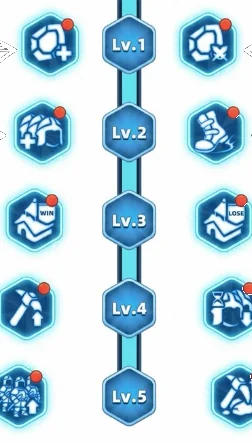
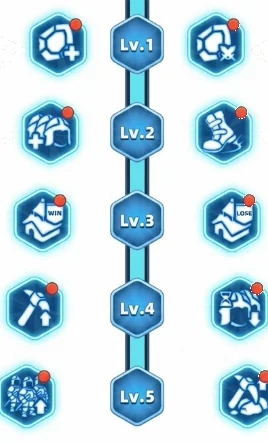
Crystal Cluster Valley: clean skill tree and Victory pictures
The sheets' arrows and handwriting touching the screenshots are removed by
colour and connected shape instead of cropping into the pictures: the skill
tree now has every skill whole, and the Victory screenshot (left out before)
shows a taken cluster with its pop-out crystals. The cleanup script is kept in
tools/guide-graphics/ for future sheets.

Claude-Session: https://claude.ai/code/session_01WTP9Bp9jFYr4NkMjMEr5Td

diff --git a/tools/guide-graphics/clean_annotations.py b/tools/guide-graphics/clean_annotations.py
@@ -1,0 +1,144 @@
+"""Cuts game screenshots out of the owner's annotated guide sheets (owner request, 2026-11-17),
+removing the annotations that touch them (black arrows and handwriting, red arrows) by colour
+and connected shape instead of a straight crop: red arrows and the outline around them, long
+ink strokes, arrowheads a crop split from their line, handwriting cut by the edge, and loose
+specks. Needs only Pillow. Used for the Crystal Cluster Valley guide's skill tree and
+Victory pictures; the helpers (components, grow_erase, is_ink, is_red) suit other sheets
+drawn the same way, with crop boxes and rules adjusted per picture: check the result."""
+from collections import deque
+from PIL import Image
+
+import sys
+
+# The owner's two Crystal Cluster Valley sheets: python3 clean_annotations.py <skill tree sheet> <late method sheet>
+SHEETS = sys.argv[1:3]
+WHITE = (255, 255, 255)
+
+
+def is_white(p):
+    return min(p) > 232
+
+
+def is_ink(p):
+    """Black/grey annotation ink: no colour, not white."""
+    return max(p) - min(p) < 28 and max(p) < 225
+
+
+def is_red(p):
+    r, g, b = p
+    return r > 150 and r - g > 90 and r - b > 70 and g < 135
+
+
+def is_blue(p):
+    r, g, b = p
+    return b - r > 35
+
+
+def components(px, w, h, pred):
+    seen = [[False] * w for _ in range(h)]
+    out = []
+    for y in range(h):
+        for x in range(w):
+            if seen[y][x] or not pred(px[x, y]):
+                continue
+            q = deque([(x, y)])
+            seen[y][x] = True
+            comp = []
+            while q:
+                cx, cy = q.popleft()
+                comp.append((cx, cy))
+                for nx, ny in ((cx + 1, cy), (cx - 1, cy), (cx, cy + 1), (cx, cy - 1),
+                               (cx + 1, cy + 1), (cx - 1, cy - 1), (cx + 1, cy - 1), (cx - 1, cy + 1)):
+                    if 0 <= nx < w and 0 <= ny < h and not seen[ny][nx] and pred(px[nx, ny]):
+                        seen[ny][nx] = True
+                        q.append((nx, ny))
+            out.append(comp)
+    return out
+
+
+def bbox(comp):
+    xs = [p[0] for p in comp]
+    ys = [p[1] for p in comp]
+    return min(xs), min(ys), max(xs), max(ys)
+
+
+def grow_erase(px, w, h, seeds, radius, pred):
+    """Erase pixels matching pred within `radius` of the seed pixels (arrow outlines)."""
+    frontier = set(seeds)
+    for _ in range(radius):
+        nxt = set()
+        for x, y in frontier:
+            for dx in (-1, 0, 1):
+                for dy in (-1, 0, 1):
+                    nx, ny = x + dx, y + dy
+                    if 0 <= nx < w and 0 <= ny < h and (nx, ny) not in seeds and pred(px[nx, ny]):
+                        nxt.add((nx, ny))
+        for p in nxt:
+            px[p] = WHITE
+        seeds = seeds | nxt
+        frontier = nxt
+
+
+def clean_tree():
+    A = Image.open(SHEETS[0]).convert('RGB')
+    im = A.crop((400, 222, 668, 665))
+    px = im.load()
+    w, h = im.size
+    # The arrows are long thin strokes of ink; the icons' own dark text (WIN/LOSE) is small
+    for comp in components(px, w, h, is_ink):
+        x0, y0, x1, y1 = bbox(comp)
+        if (x1 - x0 >= 22 or y1 - y0 >= 22) and not (x0 > 110 and x1 < 160):
+            for p in comp:
+                px[p] = WHITE
+    # Arrowheads the crop split from their lines: any ink shape in the side margins
+    for comp in components(px, w, h, is_ink):
+        x0, y0, x1, y1 = bbox(comp)
+        if x1 < 34 or x0 > w - 34:
+            for p in comp:
+                px[p] = WHITE
+    # Pale anti-aliasing left along where the strokes were
+    grey = lambda p: max(p) - min(p) < 22 and 150 <= max(p) <= 232
+    for comp in components(px, w, h, grey):
+        x0, y0, x1, y1 = bbox(comp)
+        if x1 - x0 >= 12 and (x0 < 30 or x1 > w - 30):
+            for p in comp:
+                px[p] = WHITE
+    return im
+
+
+def clean_victory():
+    B = Image.open(SHEETS[1]).convert('RGB')
+    im = B.crop((474, 116, 688, 318))
+    px = im.load()
+    w, h = im.size
+    reds = set()
+    for comp in components(px, w, h, is_red):
+        if len(comp) > 25:
+            reds.update(comp)
+    for p in reds:
+        px[p] = WHITE
+    # The arrows' black outline and anti-aliasing around the red fill
+    grow_erase(px, w, h, reds, 7, lambda p: is_ink(p) or (max(p) - min(p) < 60 and min(p) > 120 and not is_white(p)))
+    # Whatever is left of the arrows (anti-aliased outline, pink edges): anything that isn't
+    # white, blue (crystals) or the screenshot's own colours, joined to where an arrow was
+    leftover = lambda p: not is_white(p) and not is_blue(p) and (is_ink(p) or (p[0] - p[2] > 25 and p[0] > 140))
+    grow_erase(px, w, h, reds, 16, leftover)
+    # Handwriting cut by the crop's sides: ink shapes touching the left or right edge
+    for comp in components(px, w, h, is_ink):
+        x0, y0, x1, y1 = bbox(comp)
+        if x0 <= 1 or x1 >= w - 2:
+            for p in comp:
+                px[p] = WHITE
+    # Specks left on the white: keep only the screenshot's big pieces (the title, pin, label,
+    # cluster, crystals); small loose shapes, and ones with no blue or gold in them, go
+    for comp in components(px, w, h, lambda p: min(p) < 225):
+        art = sum(1 for p in comp if is_blue(px[p]) or (px[p][0] > 200 and 120 < px[p][1] < 220 and px[p][2] < 120))
+        if len(comp) < 160 or art < 8:
+            for p in comp:
+                px[p] = WHITE
+    return im
+
+
+if __name__ == '__main__':
+    clean_tree().save('crystal-tree.webp', quality=85, method=6)
+    clean_victory().save('crystal-victory.webp', quality=85, method=6)

diff --git a/docs/DECISIONS.md b/docs/DECISIONS.md
@@ -188,7 +188,7 @@ under *Must not change*, or someone will "fix" it.
 - **When the Discord reminder is posted (owner request, 2026-11-17):** under the reminder choice, *When to post it*: When it starts, 10 / 20 / 30 / 40 / 50 minutes before, or 1 hour before (the default, so new events behave as before). Saved as `reminder_minutes` (0–60 in tens; `api/manage-event.js` keeps anything else to 60); `reminder` stays `'1h'` for "on" and `'off'`, so older events (no `reminder_minutes`) keep their hour. `api/_reminders.js` posts it once the occurrence is within that many minutes; cron-job.org checks every 5 minutes (owner, 2026-11-17; it was 10), so it arrives within the 5 minutes before the chosen time (the form says so). "When it starts" is posted by the first check after the start, up to 15 minutes late, for the occurrence that has just begun (a repeating event's too), titled "🔔 Starting now" instead of "⏰ Starting soon". With *No reminder* the timing is greyed out and both hints hidden (`.form-hint[hidden]`: the reminder's "Posted in…" hint had stayed on screen since #177). The reminder's label lost "(1 hour before)"; all 8 languages.
 - **The Stewards' dashboard switcher follows the standings (owner, 2026-11-17):** it lists every alliance in the Alliance page's standings order: NAP alliances (`is_nap`, on unless switched off) by rank, then by tag, academies such as RâvN and Ghst among them (they were missing: academies were left out); then, under "Not in the NAP", the alliances outside it, in the same order. A Steward opening the page with no choice starts on the first one.
 - **Telling alliances apart: letter case counts, accents don't (owner, 2026-11-17):** RâvN and RÂVN are two alliances (RâvN was showing RÂVN's picture), while RAVN is RÂVN written without the accent. One rule everywhere, in `api/_alliances.js` (server) and `js/tags.js` (browser; `js/calendar.js` keeps its own copy, as a classic script): `sameTag` compares the letters with accents removed and letter case kept; `findTag` takes a typed tag to the alliance it means (exact, else the same letters, else, typed in another letter case, the only alliance it can mean; never a guess between RâvN and RÂVN). Used for: the alliance pictures (and who may send or remove them), the dashboard (which file, and the R5 check), the King's console, the calendar (which alliance events a page sees and who may edit or delete them, the alert channel, reminders), sign-in by role name or `[TAG]` nickname, the bot's alliance roles, `/rank` (a new tag is kept as typed, no longer put in capitals), the map's territory owner and the blacklist's duplicate check (alliances; players still ignore letter case). **Stored files** (`tagSlug`): an alliance's letters and digits in capitals, as before (RÂVN → RAVN, HeKi → HEKI), so nothing stored moves; only when another alliance already has those capitals is the letter case kept (RâvN → RavN). RâvN's own pictures and dashboard therefore start empty; anything it sent before shared RÂVN's. (Fixed the same day: the picture server only accepted capitals in file names, so RâvN's approved pictures, `RavN-…`, were saved but answered "not found".) **Sign-in roles:** `_data/alliances.yml role_settings` gained RâvN (`DISCORD_RavN`) and Ghst (`DISCORD_GHST`).
-- **Crystal Cluster Valley guide, from the owner's two graphics (2026-11-17):** the skill tree sheet and "Scotty's late method" sheet combined into one guide by topic, not by sheet: The Valley (map rings, the centre's last 7 minutes, rats), Skills (each level's left and right skill with which to pick, and the rats' skill crystals), Clusters (Guardian crystals, stealing, Instant Clusters, the centre), Late Method (Scotty's steps) and Controls (teleport, notification timers, the skill button). Game screenshots cut out of the sheets, words as text. It replaces the old placeholder (`_source/crystal.md`), and the card is live at `/LANG/guides/crystal.html` (was `crystal-valley.html`, unavailable), where the calendar's Crystal Cluster events already link. Skills are named, not called left/right, in the late method: the second sheet's (L)/(R) labels are mirrored from the first's.
+- **Crystal Cluster Valley guide, from the owner's two graphics (2026-11-17):** the skill tree sheet and "Scotty's late method" sheet combined into one guide by topic, not by sheet: The Valley (map rings, the centre's last 7 minutes, rats), Skills (each level's left and right skill with which to pick, and the rats' skill crystals), Clusters (Guardian crystals, stealing, Instant Clusters, the centre), Late Method (Scotty's steps) and Controls (teleport, notification timers, the skill button). Game screenshots cut out of the sheets, words as text. It replaces the old placeholder (`_source/crystal.md`), and the card is live at `/LANG/guides/crystal.html` (was `crystal-valley.html`, unavailable), where the calendar's Crystal Cluster events already link. Skills are named, not called left/right, in the late method: the second sheet's (L)/(R) labels are mirrored from the first's. The skill tree and the Victory screenshot had the sheets' arrows and handwriting touching them; they are cleaned by colour and connected shape rather than cropped into (`tools/guide-graphics/clean_annotations.py`, Pillow only).
 - **Alliance Duel guide, reworked from the owner's day graphics (2026-11-17):** an Overview tab (the week's themes, Sunday's preparation and the Falcon Quest rule: complete the day before, collect only on Days 1, 3 and 5) and a tab per day (Day 1: Raven … Day 6: Invasion), each with its picture cut from the owner's graphic and its tasks as text, so the whole guide is translated like any other. It replaces the day table built from `_data/duel_schedule.yml` (hand-translated per language) with `_includes/duel_schedule.html`, both removed; the tasks follow the new graphics, plus from the old table Sunday's preparation, antitoxins on Day 1, and on Day 6 that losing soldiers earns points too, with the owner's warning that throwing troops away gives the opponent more points than you. The draft (`_source/duel_en.md`) replaced `_source/duel.md`, so CI translated all 8 languages again on merge.
 - **Guide cards show their event's picture (owner request, 2026-11-17):** a guide with an event on the calendar names it in `_data/guide_directory.yml` (`event:`, an id in `_data/event_types.yml`), and its card on the Guides page and in Pinned Pages shows that event's `picture` behind it, dimmed into the theme's card colour (darkest at the bottom, under the name), as the calendar's event cards do. One picture per event, so adding one to an event shows it on the calendar and the guide card together. A guide with no event can have its own `picture:` (a file in `images/events/`). Coming-soon cards keep their grey, dimmed look, picture included. `_includes/guide-picture.html` works the picture out for both. At the time, 5 events had pictures: Crystal Cluster, Elixir Scramble, Undead Siege, Gear Upgrade and Cheese Trap (only Cheese Trap's guide was written). **More pictures (owner, 2026-11-17):** Kingdom War (`kvk_battle`), Kill Event and the new **Hunt Battle** event type (a behemoth hunt; owner: 1 hour, no repeat until its length is known; claw-marks icon; no guide yet) got pictures, each as a wide 1600x400 `picture` (calendar) and a 3:2 `card_picture` (720x483, guide cards and Pinned Pages, which are nearer square; without one they use the wide `picture`). Alliance Duel isn't a calendar event, so its guide card has its own `picture` (`alliance_duel_card.webp`; the wide `alliance_duel.webp` is kept for if it becomes one). **Hunt Battle** joined the guides' events as a coming-soon card (`hunt_battle`, linked to its event, so its picture shows; label in all 8 `ui.yml` files, as the calendar names it; French corrected to "Bataille de chasse" in `translation_overrides.yml`: Gemini gave "Chasse aux Voleurs", which is Thief Hunt). **Combat** and **Building & Tech** got the owner's pictures as their own `picture` (`combat_card.webp`, `building_card.webp`; the wide versions are kept for the guides' headers later). So did **Resource Mgmt** and **Heroes & Builds** (`resources_card.webp`, `heroes_card.webp`). And the **Sanctuary Guide** and **T10 Calculator** (`sanctuary_card.webp`, `t10_card.webp`), the first written Strategy guides with pictures. Then the **Sanctuary Shop** and **Alliance Shop** (`sanctuary_shop_card.webp`, `alliance_shop_card.webp`), the first shops.
 - **Home page: Pinned Pages and the Calendar directory (owner request, 2026-11-17):** "Critical Intel" is now **Pinned Pages** (section id `pinned-pages`). It pins key pages that aren't top-level pages (those are in the footer and Directories) and aren't tools: the guides most used in the week, listed by key in `_data/home_pinned.yml` (Kingdom War, Survival Battle, Alliance Duel, Royal Scramble, Thief Hunt, Sanctuary), each with the icon, link and translated name it has in the guides directory (`_data/guide_directory.yml`, `ui.yml guides:`), so nothing is written twice; unavailable guides are skipped. The old pinned names (T10 Calculator, Server Rules, Capitol Rotation/Rewards, NAP Alliances, Blacklist) left `content.yml`. Every guide's icon was redrawn to show what it is about (owner request): a guide with an event on the calendar uses that event's icon (Kingdom War crossed swords, Survival Battle shield and heart, Cheese Trap wedge, Crystal Valley gem), the others got their own (Royal Scramble a crown, Alliance Duel "VS", Thief Hunt robber's mask, Sanctuary temple, Heroes helmet, Combat shield and sword, Building hammer, Resources wheat, Canyon cliffs, Dwarven Pickaxe, and a different one per shop); T10 keeps its tier hexagon. Pinned Pages shows the same icons, from the same file. **Elixir Scramble** (the calendar's flask), **Undead Siege** (the skull), **Kill Event** (the crosshair) and **Gear Upgrade** (the armour) joined the events as coming-soon guides (`elixir`, `undead_siege`, `kill_event`, `gear_upgrade`, with the calendar's names; names in `ui.yml guides:` by hand in all 8 languages); their calendar event types get a `guide:` link once the pages exist. Royal Scramble and Elixir Scramble are different events: German, French and Italian had both as "Royal Scramble", so Elixir Scramble's calendar name is fixed there and kept by `_data/translation_overrides.yml`. **Footer icons (owner choice, mixed from three drafted sets):** a keep (Home), a scroll (Rules), a map (Guides), two shields (Alliance) and a calendar with a clock (Calendar); the home page's Directories cards use the same. **Directories** gained **Event Calendar** ("Alliance & server events, and the Capitol rotation"), with the footer's calendar icon. All 8 languages.

diff --git a/_source/crystal_en.md b/_source/crystal_en.md
@@ -56,7 +56,7 @@ order: 2
 ---
 
 <div class="guide-shots">
-<img src="/images/guides/crystal-tree.webp" alt="The skill tree: five levels, with a skill on the left and one on the right" class="blueprint-img" width="252" height="443" loading="lazy">
+<img src="/images/guides/crystal-tree.webp" alt="The skill tree: five levels, with a skill on the left and one on the right" class="blueprint-img" width="268" height="443" loading="lazy">
 </div>
 
 The skill tree has five levels, with a choice of two skills on each. Unlocking every level takes **2,300 skill crystals**. Pick by how you play: gathering or fighting.
@@ -115,6 +115,7 @@ order: 3
 
 <div class="guide-shots">
 <img src="/images/guides/crystal-guardian.webp" alt="A level 1 Crystal Cluster, not occupied, with a Lv.1 Crystal Guardian" class="blueprint-img" width="174" height="195" loading="lazy">
+<img src="/images/guides/crystal-victory.webp" alt="A cluster just taken (Victory), with three crystals popping out around it" class="blueprint-img" width="214" height="202" loading="lazy">
 </div>
 
 * A **Crystal Guardian** (level 1, 2 or 3) under a cluster means nobody has occupied it yet. When you reach it, **3 crystals pop out** that your scouts can gather.

diff --git a/docs/HOWTO.md b/docs/HOWTO.md
@@ -134,7 +134,9 @@ What to change:
   viewer, with Close and Download), with nothing else to add. Several side by side:
   `<div class="guide-shots">` around them.
 - A guide made from an English graphic: cut the game screenshots out (no words in them) and
-  write the words as text, so every language can read them. Map markers can be shown in their
+  write the words as text, so every language can read them. Where the sheet's arrows or
+  handwriting touch a screenshot, `tools/guide-graphics/clean_annotations.py` shows how to
+  remove them by colour and shape instead of cropping into the picture. Map markers can be shown in their
   colours with `<span class="map-pin is-red" aria-hidden="true"></span>` (also `is-bright-red`,
   `is-light-red`, `is-blue`, `is-white`, `is-yellow`).
 - Don't use code blocks (lines starting with three backticks): the build removes them.
